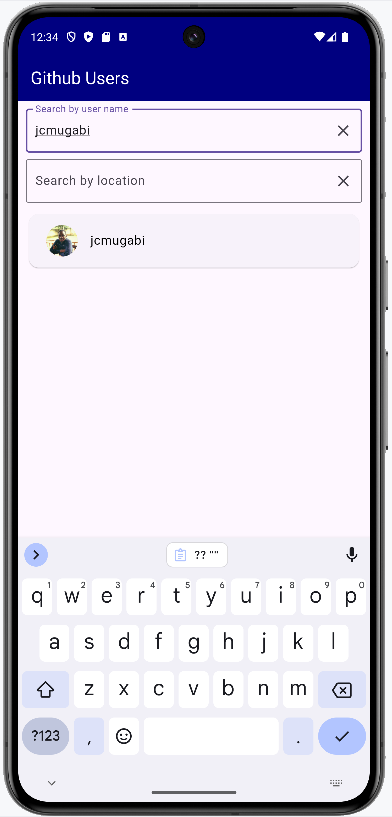
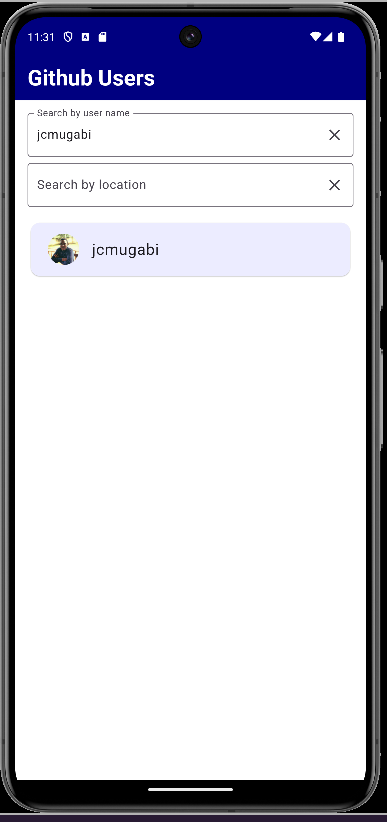
ch(update_readme):modify ui theme back to previous and update readme acordindgly

diff --git a/lib/presentation/screens/users_screen.dart b/lib/presentation/screens/users_screen.dart
@@ -2,6 +2,7 @@ import 'package:flutter/material.dart';
 import 'package:provider/provider.dart';
 import 'package:infinite_scroll_pagination/infinite_scroll_pagination.dart';
 import '../../domain/entities/user.dart';
+import '../theme/colours.dart';
 import '../widgets/no_internet_feedback_card.dart';
 import '../widgets/user_card.dart';
 import '../state/providers/internet_connection_provider.dart';
@@ -24,16 +25,12 @@ class _UsersScreenState extends State<UsersScreen> {
     super.initState();
 
     _searchController.addListener(() {
-      final userProvider = Provider.of<UserListProvider>(context, listen: false);
-      userProvider.updateSearchQuery(_searchController.text, location: _locationController.text);
       setState(() {
         isSearching = _searchController.text.isNotEmpty || _locationController.text.isNotEmpty;
       });
     });
 
     _locationController.addListener(() {
-      final userProvider = Provider.of<UserListProvider>(context, listen: false);
-      userProvider.updateSearchQuery(_searchController.text, location: _locationController.text);
       setState(() {
         isSearching = _searchController.text.isNotEmpty || _locationController.text.isNotEmpty;
       });
@@ -76,19 +73,24 @@ class _UsersScreenState extends State<UsersScreen> {
     );
   }
 
+  void _performSearch() {
+    final userProvider = Provider.of<UserListProvider>(context, listen: false);
+    userProvider.updateSearchQuery(_searchController.text, location: _locationController.text);
+  }
+
   @override
   Widget build(BuildContext context) {
     final userProvider = Provider.of<UserListProvider>(context);
     final connectivityProvider = Provider.of<InternetConnectionProvider>(context);
 
     return Scaffold(
-      backgroundColor: const Color(0xFFffffff),
+      backgroundColor: AppColors.backgroundColor,
       appBar: AppBar(
         title: const Text(
           'Github Users',
-          style: TextStyle(color: Colors.black, fontSize: 28, fontWeight: FontWeight.bold),
+          style: TextStyle(color: AppColors.backgroundColor, fontSize: 28, fontWeight: FontWeight.bold),
         ),
-        backgroundColor: const Color(0xFFffffff),
+        backgroundColor: AppColors.primaryColor,
       ),
       body: Column(
         children: [
@@ -100,6 +102,7 @@ class _UsersScreenState extends State<UsersScreen> {
                   children: [
                     TextField(
                       controller: _searchController,
+                      onSubmitted: (_) => _performSearch(),
                       decoration: const InputDecoration(
                         labelText: 'Search by user name',
                         border: OutlineInputBorder(),
@@ -128,6 +131,7 @@ class _UsersScreenState extends State<UsersScreen> {
                   children: [
                     TextField(
                       controller: _locationController,
+                      onSubmitted: (_) => _performSearch(),
                       decoration: const InputDecoration(
                         labelText: 'Search by location',
                         border: OutlineInputBorder(),
@@ -154,7 +158,6 @@ class _UsersScreenState extends State<UsersScreen> {
               ],
             ),
           ),
-
           if (!connectivityProvider.isConnected)
             const Padding(
               padding: EdgeInsets.all(16.0),
@@ -169,7 +172,7 @@ class _UsersScreenState extends State<UsersScreen> {
                   ? userProvider.isLoading
                   ? const Center(child: CircularProgressIndicator())
                   : userProvider.searchedUsers.isEmpty
-                  ? const Center(child: Text('No users found'))
+                  ? const Center(child: Text('No users..'))
                   : ListView.builder(
                 itemCount: userProvider.searchedUsers.length,
                 itemBuilder: (context, index) {
@@ -178,7 +181,7 @@ class _UsersScreenState extends State<UsersScreen> {
                     onTap: () => _onUserTap(user),
                     child: Padding (
                       padding: const EdgeInsets.only(left: 16.0, right: 16.0),
-                    child: UserCard(user: user),
+                      child: UserCard(user: user),
                     ),
                   );
                 },

diff --git a/lib/presentation/widgets/user_details_card.dart b/lib/presentation/widgets/user_details_card.dart
@@ -1,6 +1,7 @@
 import 'package:flutter/material.dart';
 // import 'package:url_launcher/url_launcher.dart';
 import '../../domain/entities/user.dart';
+import '../theme/colours.dart';
 import '../utils/url_launcher.dart';
 
 class UserDetailsCard extends StatelessWidget {
@@ -39,11 +40,12 @@ class UserDetailsCard extends StatelessWidget {
           user.login,
           style: const TextStyle(fontSize: 18, color: Color(0xFF000000)),
         ),
+        const SizedBox(height: 20),
         SizedBox(
           height: 1,
           width: MediaQuery.of(context).size.width * 0.85,
           child: Container(
-            color: Colors.grey,
+            color: AppColors.primaryColor,
           ),
         ),
         const SizedBox(height: 20),
@@ -63,7 +65,7 @@ class UserDetailsCard extends StatelessWidget {
             launchUrlInBrowser('https://github.com/${user.login}');
           },
           style: ElevatedButton.styleFrom(
-            backgroundColor: const Color(0xFF000000),
+            backgroundColor: AppColors.primaryColor,
             foregroundColor: const Color(0xFFFFFFFF,)
           ),
           child: const Text('VISIT GITHUB PROFILE'),
@@ -91,7 +93,7 @@ class UserDetailsCard extends StatelessWidget {
         const SizedBox(height: 4),
         Text(
           label,
-          style: const TextStyle(fontSize: 16, color: Color(0xFF000000)),
+          style: const TextStyle(fontSize: 16, color: AppColors.primaryColor),
         ),
       ],
     );
@@ -102,7 +104,7 @@ class ArcPainter extends CustomPainter {
   @override
   void paint(Canvas canvas, Size size) {
     final paint = Paint()
-      ..color = const Color(0xFFffffff)
+      ..color = AppColors.primaryColor
       ..style = PaintingStyle.fill;
 
     final path = Path()

diff --git a/lib/presentation/screens/user_details_screen.dart b/lib/presentation/screens/user_details_screen.dart
@@ -4,6 +4,7 @@ import 'package:provider/provider.dart';
 import '../../domain/entities/user.dart';
 import '../state/providers/internet_connection_provider.dart';
 import '../state/providers/user_details_provider.dart';
+import '../theme/colours.dart';
 import '../widgets/no_internet_feedback_card.dart';
 import '../widgets/user_details_card.dart';
 
@@ -50,10 +51,10 @@ class _UserDetailsScreenState extends State<UserDetailsScreen> {
 
     return Scaffold(
       appBar: AppBar(
-        backgroundColor: const Color(0xFFffffff),
-        foregroundColor: const Color(0xFF000000),
+        backgroundColor: AppColors.primaryColor,
+        foregroundColor: AppColors.backgroundColor,
         title: const Text('Profile',
-            style: TextStyle(color: Colors.black, fontSize: 24, fontWeight: FontWeight.bold)),
+            style: TextStyle(fontSize: 24, fontWeight: FontWeight.bold)),
         actions: [
           IconButton(
             icon: const Icon(Icons.share),

diff --git a/lib/presentation/widgets/no_internet_feedback_card.dart b/lib/presentation/widgets/no_internet_feedback_card.dart
@@ -2,6 +2,8 @@ import 'package:flutter/material.dart';
 import 'package:device_info_plus/device_info_plus.dart';
 import 'package:android_intent_plus/android_intent.dart';
 
+import '../theme/colours.dart';
+
 class NoInternetFeedback extends StatelessWidget {
   const NoInternetFeedback({super.key});
 
@@ -40,8 +42,8 @@ class NoInternetFeedback extends StatelessWidget {
             const SizedBox(height: 16.0),
             ElevatedButton(
               style: ElevatedButton.styleFrom(
-                backgroundColor: Color(0xFFffffff),
-                foregroundColor: Color(0xFFFFFFFF),
+                backgroundColor: AppColors.primaryColor,
+                foregroundColor: AppColors.backgroundColor,
               ),
               onPressed: openSettings,
               child: const Text('Turn On'),

diff --git a/lib/presentation/theme/colours.dart b/lib/presentation/theme/colours.dart
@@ -1,8 +1,8 @@
 import 'package:flutter/material.dart';
 
 class AppColors {
-  static const Color primaryColor = Color(0xFFffffff);
-  static const Color accentColor = Color(0xFF808080);
-  static const Color backgroundColor = Colors.black;
+  static const Color primaryColor = Color(0xFF000080);
+  static const Color accentColor = Colors.blueAccent;
+  static const Color backgroundColor = Colors.white;
   static const Color textColor = Colors.black;
 }

diff --git a/lib/presentation/widgets/user_card.dart b/lib/presentation/widgets/user_card.dart
@@ -11,7 +11,8 @@ class UserCard extends StatelessWidget {
   Widget build(BuildContext context) {
     return Card(
       // color: Colors.grey[250],
-      color: const Color(0xFFe6e6e6),
+      // color: Colors.blue[50],
+      color: const Color(0xFFececff),
       child: Padding(
         padding: const EdgeInsets.all(6.0),
       child: ListTile(
